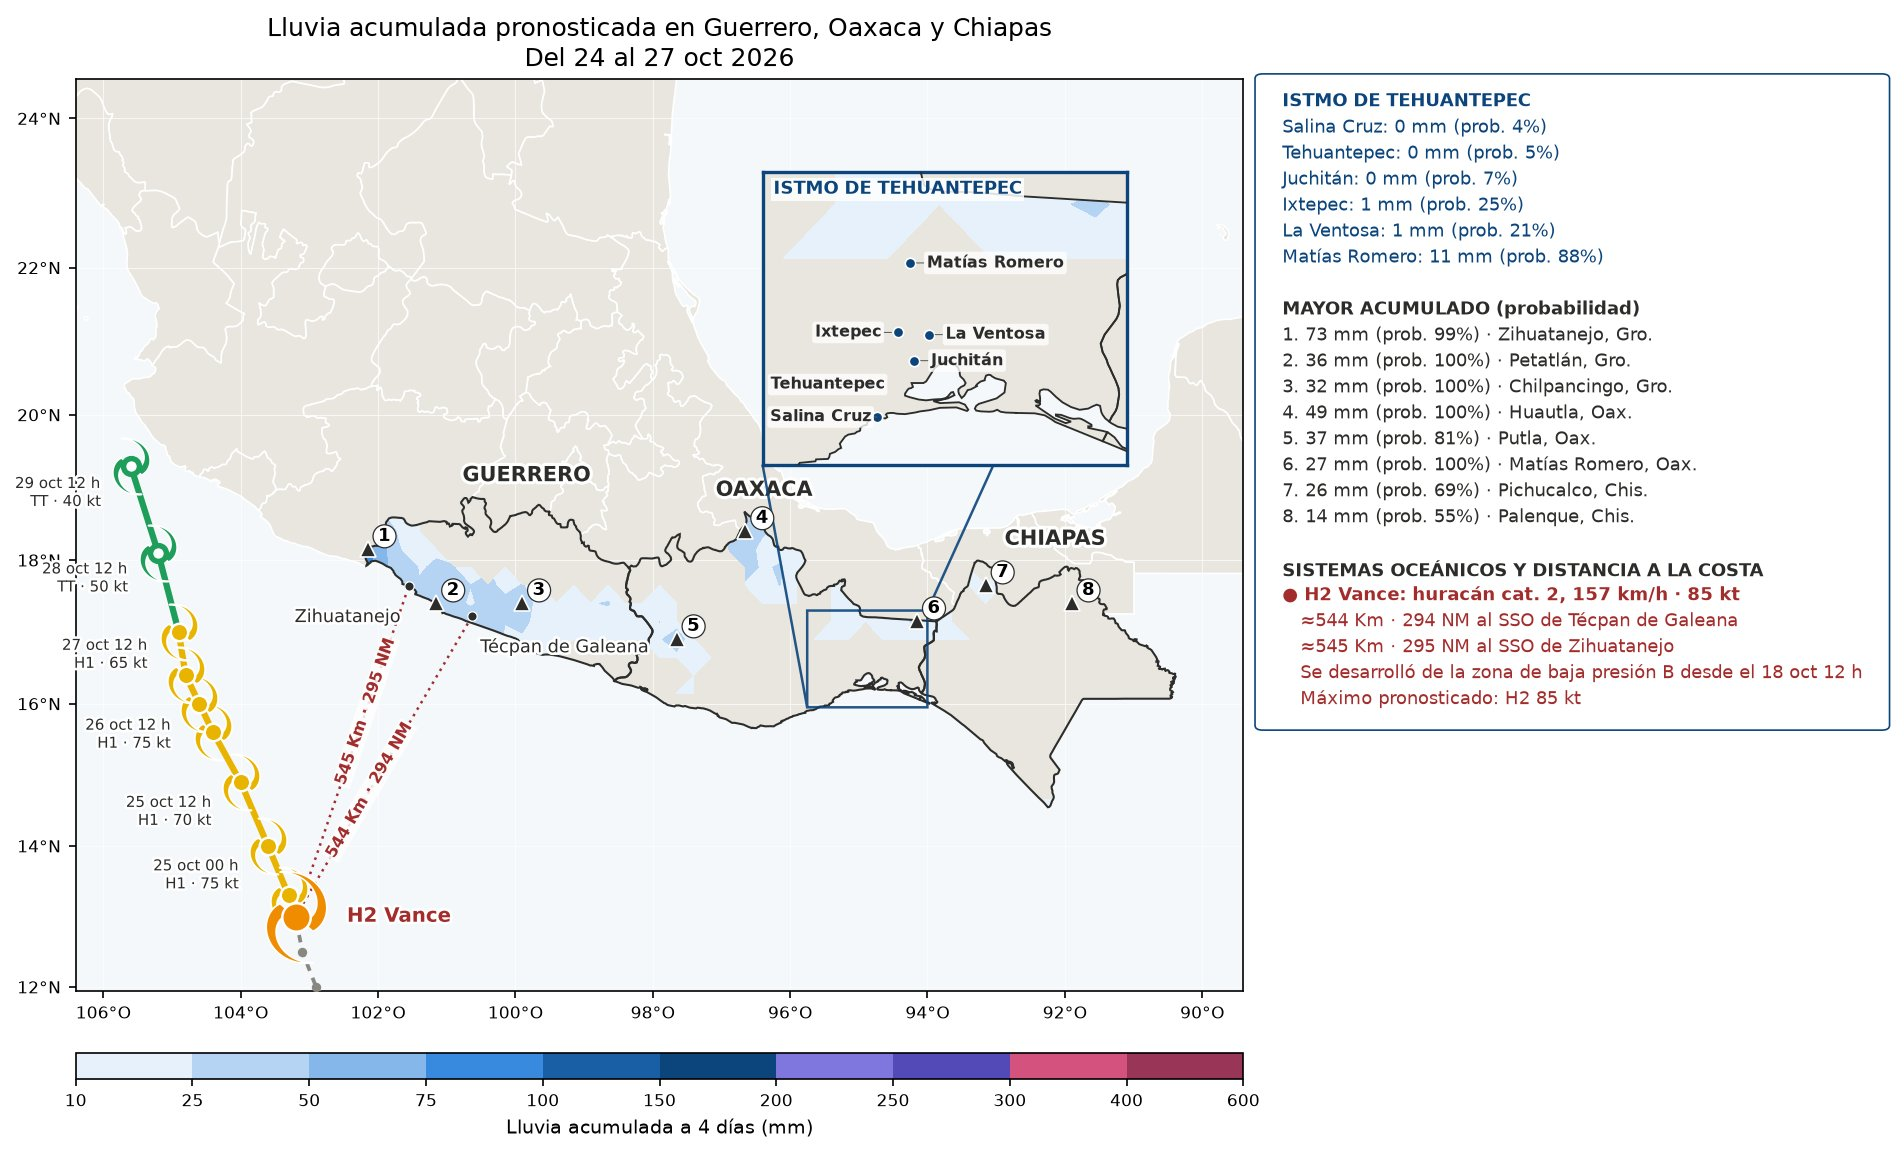
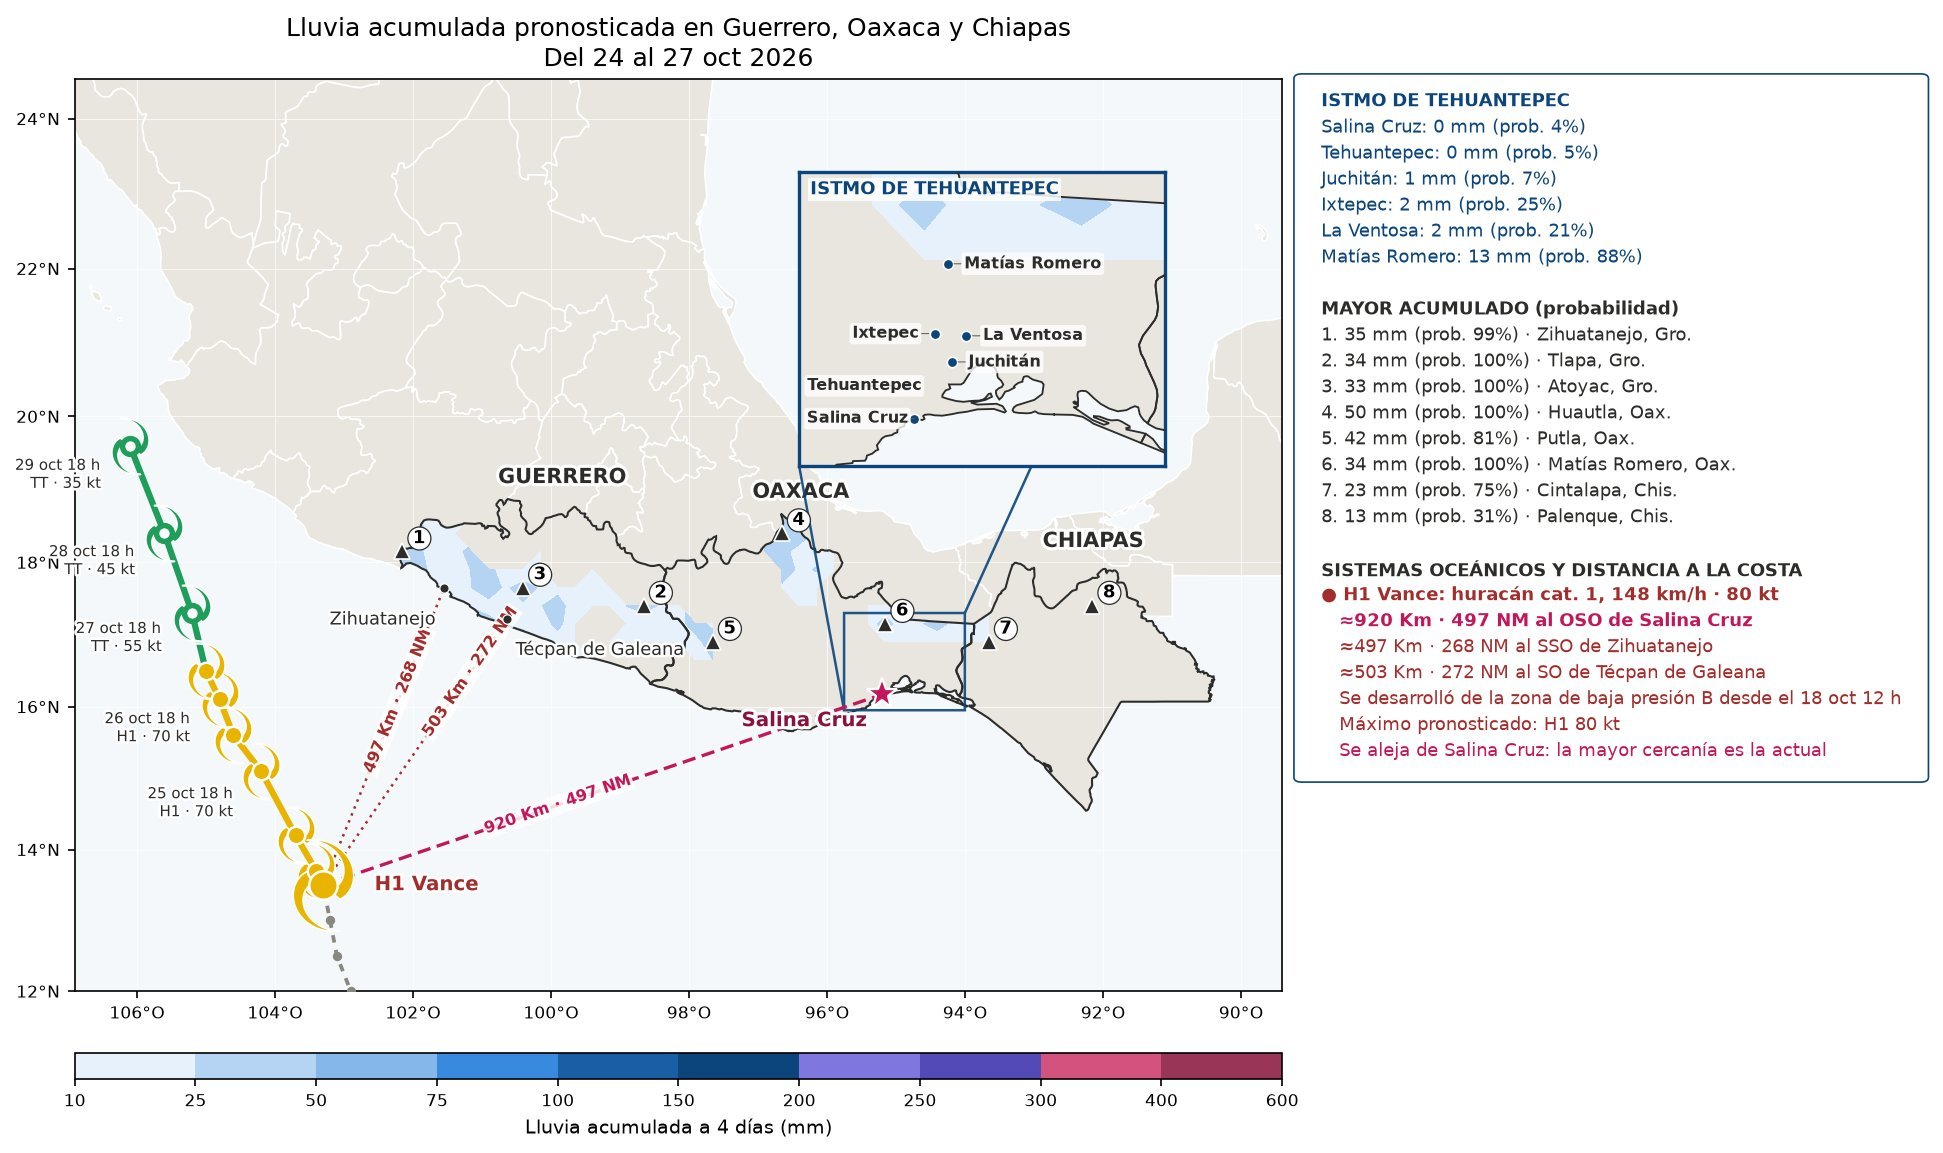
Monitor 24/10 21:10 (mapas nuevos)

diff --git a/index.html b/index.html
@@ -62,7 +62,7 @@ pre{overflow-x:auto;font-size:.75rem;background:var(--bg);padding:10px;border-ra
 <section class="t" id="sec_log"><details><summary>Registro (últimas líneas)</summary><pre id="log"></pre></details></section>
 </main>
 <div id="zoom"><img alt=""></div>
-<script id="datos" type="application/json">{"generado": "2026-10-24T20:37:03.408520", "ultima_revision": "2026-10-24T20:37:03.380845", "decision": "cambios menores en espera", "ultima_imagen": "2026-10-24T18:00:35.822546", "motivo_imagen": "cambios acumulados en 3 h: modelo", "pendientes": ["modelo"], "intervalo_h": 3, "resumen": {"ciclones": {"ep222026": {"nombre": "Vance", "kt": 80, "cat": "H1"}}, "zonas": []}, "historial": [{"fecha": "2026-10-22T13:37:25.982695", "motivo": "manual (--forzar)"}, {"fecha": "2026-10-22T16:50:12.796107", "motivo": "cambios acumulados en 3 h: nhc, modelo"}, {"fecha": "2026-10-22T20:00:33.390363", "motivo": "cambios acumulados en 3 h: modelo"}, {"fecha": "2026-10-22T23:07:14.363150", "motivo": "cambios acumulados en 3 h: nhc"}, {"fecha": "2026-10-23T03:07:13.407994", "motivo": "CAMBIO SIGNIFICATIVO: Vance cambió de categoría TT → H1"}, {"fecha": "2026-10-23T06:24:52.066568", "motivo": "cambios acumulados en 3 h: modelo"}, {"fecha": "2026-10-23T09:30:17.759506", "motivo": "cambios acumulados en 3 h: nhc, modelo"}, {"fecha": "2026-10-23T14:47:14.365047", "motivo": "CAMBIO SIGNIFICATIVO: Vance cambió de categoría H1 → H2"}, {"fecha": "2026-10-23T18:00:44.711869", "motivo": "cambios acumulados en 3 h: modelo"}, {"fecha": "2026-10-23T21:10:22.420281", "motivo": "cambios acumulados en 3 h: nhc, modelo"}, {"fecha": "2026-10-24T02:47:13.566844", "motivo": "cambios acumulados en 3 h: nhc"}, {"fecha": "2026-10-24T06:01:48.883304", "motivo": "cambios acumulados en 3 h: modelo"}, {"fecha": "2026-10-24T09:10:07.143899", "motivo": "cambios acumulados en 3 h: nhc, modelo"}, {"fecha": "2026-10-24T14:47:15.381799", "motivo": "CAMBIO SIGNIFICATIVO: Vance cambió de categoría H2 → H1"}, {"fecha": "2026-10-24T18:00:35.822546", "motivo": "cambios acumulados en 3 h: modelo"}], "imagenes": {"lluvia": {"src": "lluvia.jpg?v=202610241800", "fecha": "2026-10-24T18:00:29.530828"}, "viento": {"src": "viento.jpg?v=202610241800", "fecha": "2026-10-24T18:00:34.113921"}}, "log": [], "umbral_av": 50, "umbral_mal": 110}</script>
+<script id="datos" type="application/json">{"generado": "2026-10-24T21:10:15.016604", "ultima_revision": "2026-10-24T21:10:14.966105", "decision": "imágenes generadas", "ultima_imagen": "2026-10-24T21:10:14.966105", "motivo_imagen": "cambios acumulados en 3 h: nhc, modelo", "pendientes": [], "intervalo_h": 3, "resumen": {"ciclones": {"ep222026": {"nombre": "Vance", "kt": 80, "cat": "H1"}}, "zonas": []}, "historial": [{"fecha": "2026-10-22T16:50:12.796107", "motivo": "cambios acumulados en 3 h: nhc, modelo"}, {"fecha": "2026-10-22T20:00:33.390363", "motivo": "cambios acumulados en 3 h: modelo"}, {"fecha": "2026-10-22T23:07:14.363150", "motivo": "cambios acumulados en 3 h: nhc"}, {"fecha": "2026-10-23T03:07:13.407994", "motivo": "CAMBIO SIGNIFICATIVO: Vance cambió de categoría TT → H1"}, {"fecha": "2026-10-23T06:24:52.066568", "motivo": "cambios acumulados en 3 h: modelo"}, {"fecha": "2026-10-23T09:30:17.759506", "motivo": "cambios acumulados en 3 h: nhc, modelo"}, {"fecha": "2026-10-23T14:47:14.365047", "motivo": "CAMBIO SIGNIFICATIVO: Vance cambió de categoría H1 → H2"}, {"fecha": "2026-10-23T18:00:44.711869", "motivo": "cambios acumulados en 3 h: modelo"}, {"fecha": "2026-10-23T21:10:22.420281", "motivo": "cambios acumulados en 3 h: nhc, modelo"}, {"fecha": "2026-10-24T02:47:13.566844", "motivo": "cambios acumulados en 3 h: nhc"}, {"fecha": "2026-10-24T06:01:48.883304", "motivo": "cambios acumulados en 3 h: modelo"}, {"fecha": "2026-10-24T09:10:07.143899", "motivo": "cambios acumulados en 3 h: nhc, modelo"}, {"fecha": "2026-10-24T14:47:15.381799", "motivo": "CAMBIO SIGNIFICATIVO: Vance cambió de categoría H2 → H1"}, {"fecha": "2026-10-24T18:00:35.822546", "motivo": "cambios acumulados en 3 h: modelo"}, {"fecha": "2026-10-24T21:10:14.966105", "motivo": "cambios acumulados en 3 h: nhc, modelo"}], "imagenes": {"lluvia": {"src": "lluvia.jpg?v=202610242110", "fecha": "2026-10-24T21:10:08.174231"}, "viento": {"src": "viento.jpg?v=202610242110", "fecha": "2026-10-24T21:10:13.183593"}}, "log": [], "umbral_av": 50, "umbral_mal": 110}</script>
 <script>
 const D = JSON.parse(document.getElementById("datos").textContent);
 const $ = id => document.getElementById(id);
